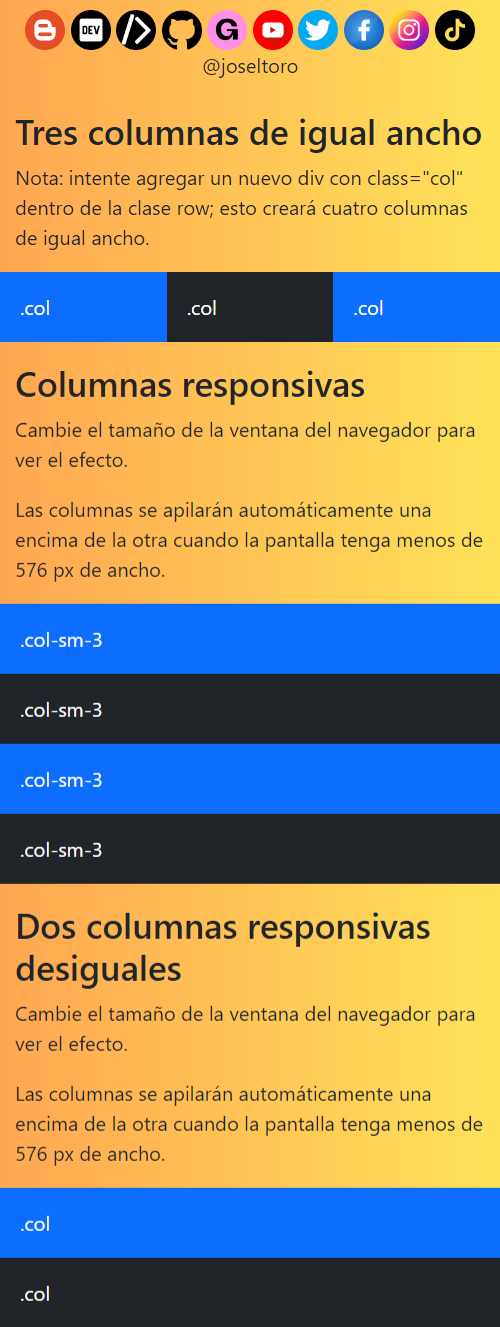
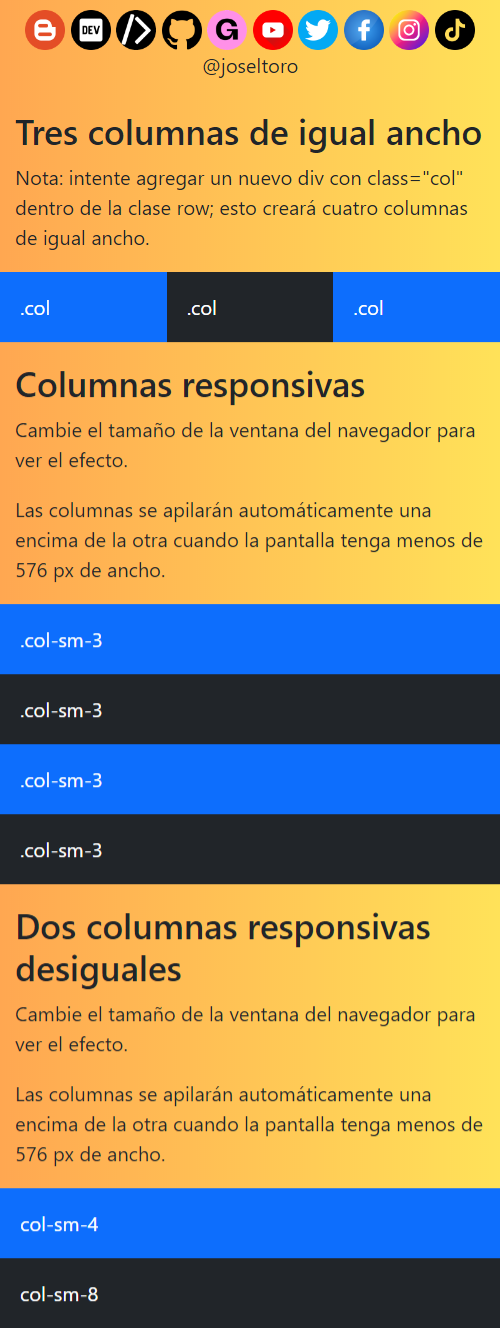
Capturas de pantalla actualizadas

diff --git a/index.html b/index.html
@@ -68,8 +68,8 @@
         <p>Cambie el tamaño de la ventana del navegador para ver el efecto.</p>
         <p>Las columnas se apilarán automáticamente una encima de la otra cuando la pantalla tenga menos de 576 px de ancho.</p>
         <div class="row">
-          <div class="col-sm-4 p-3 bg-primary text-white">.col</div>
-          <div class="col-sm-8 p-3 bg-dark text-white">.col</div>
+          <div class="col-sm-4 p-3 bg-primary text-white">col-sm-4</div>
+          <div class="col-sm-8 p-3 bg-dark text-white">col-sm-8</div>
         </div>
       </div>
 </body>
